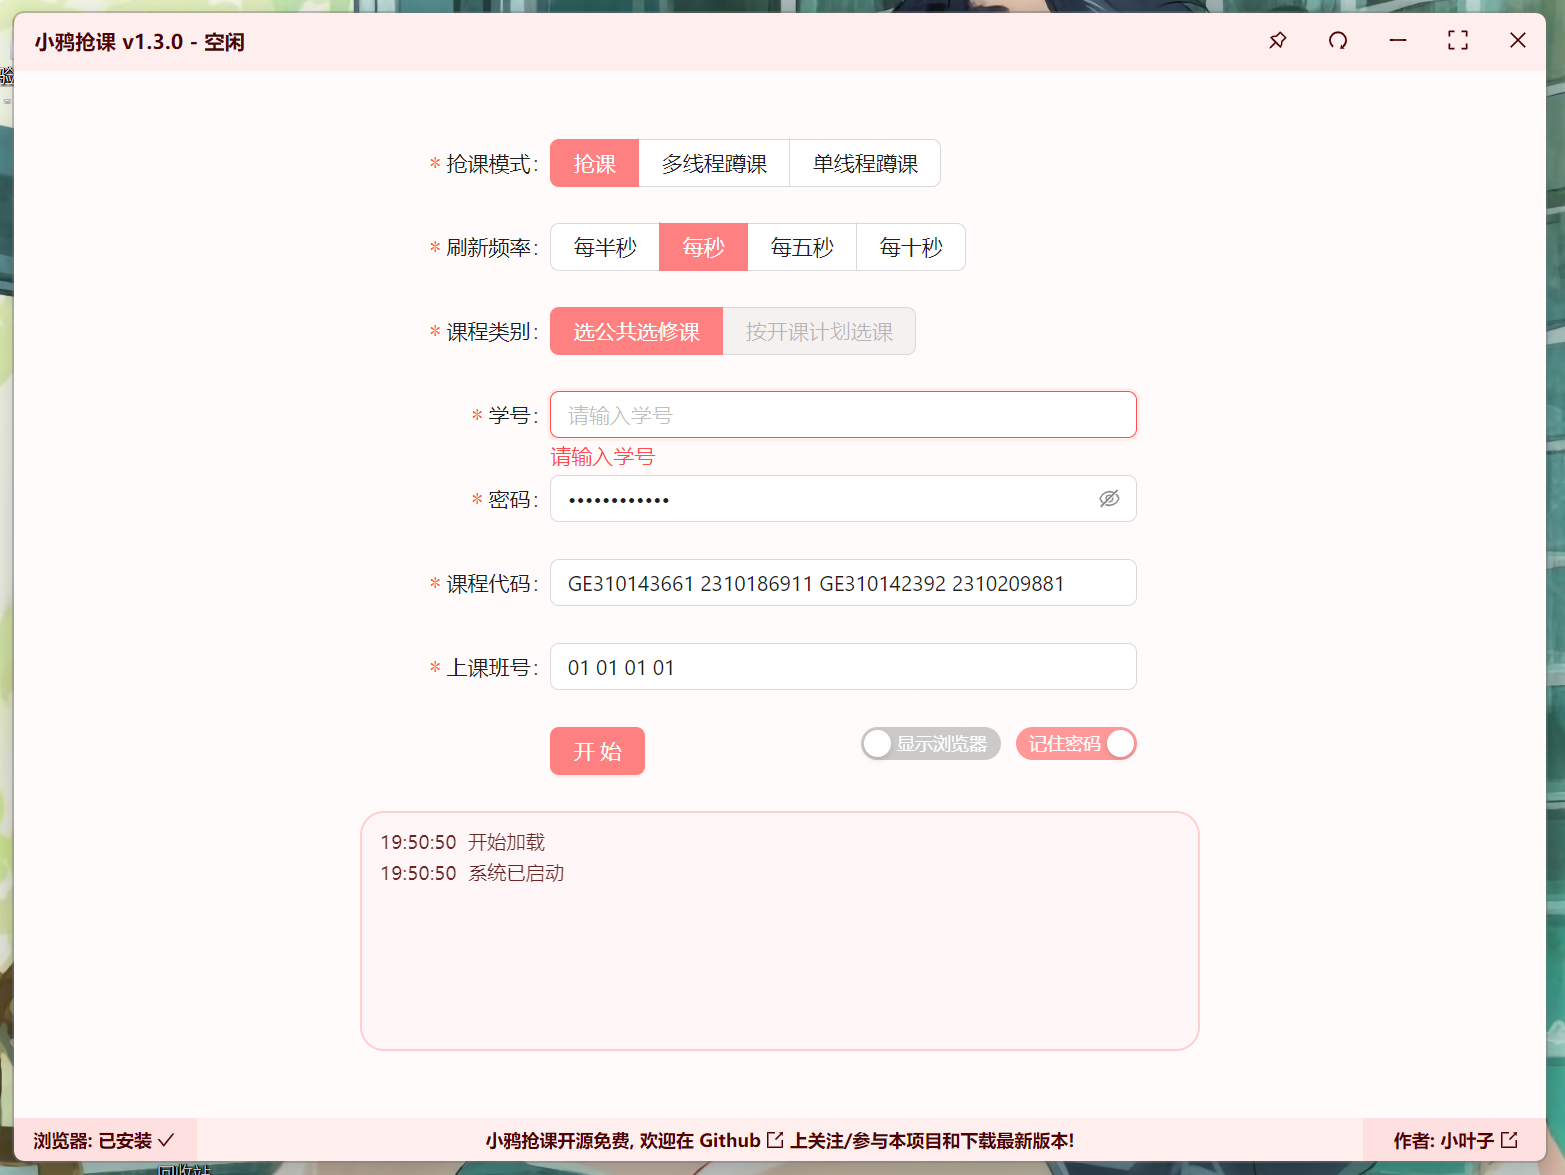
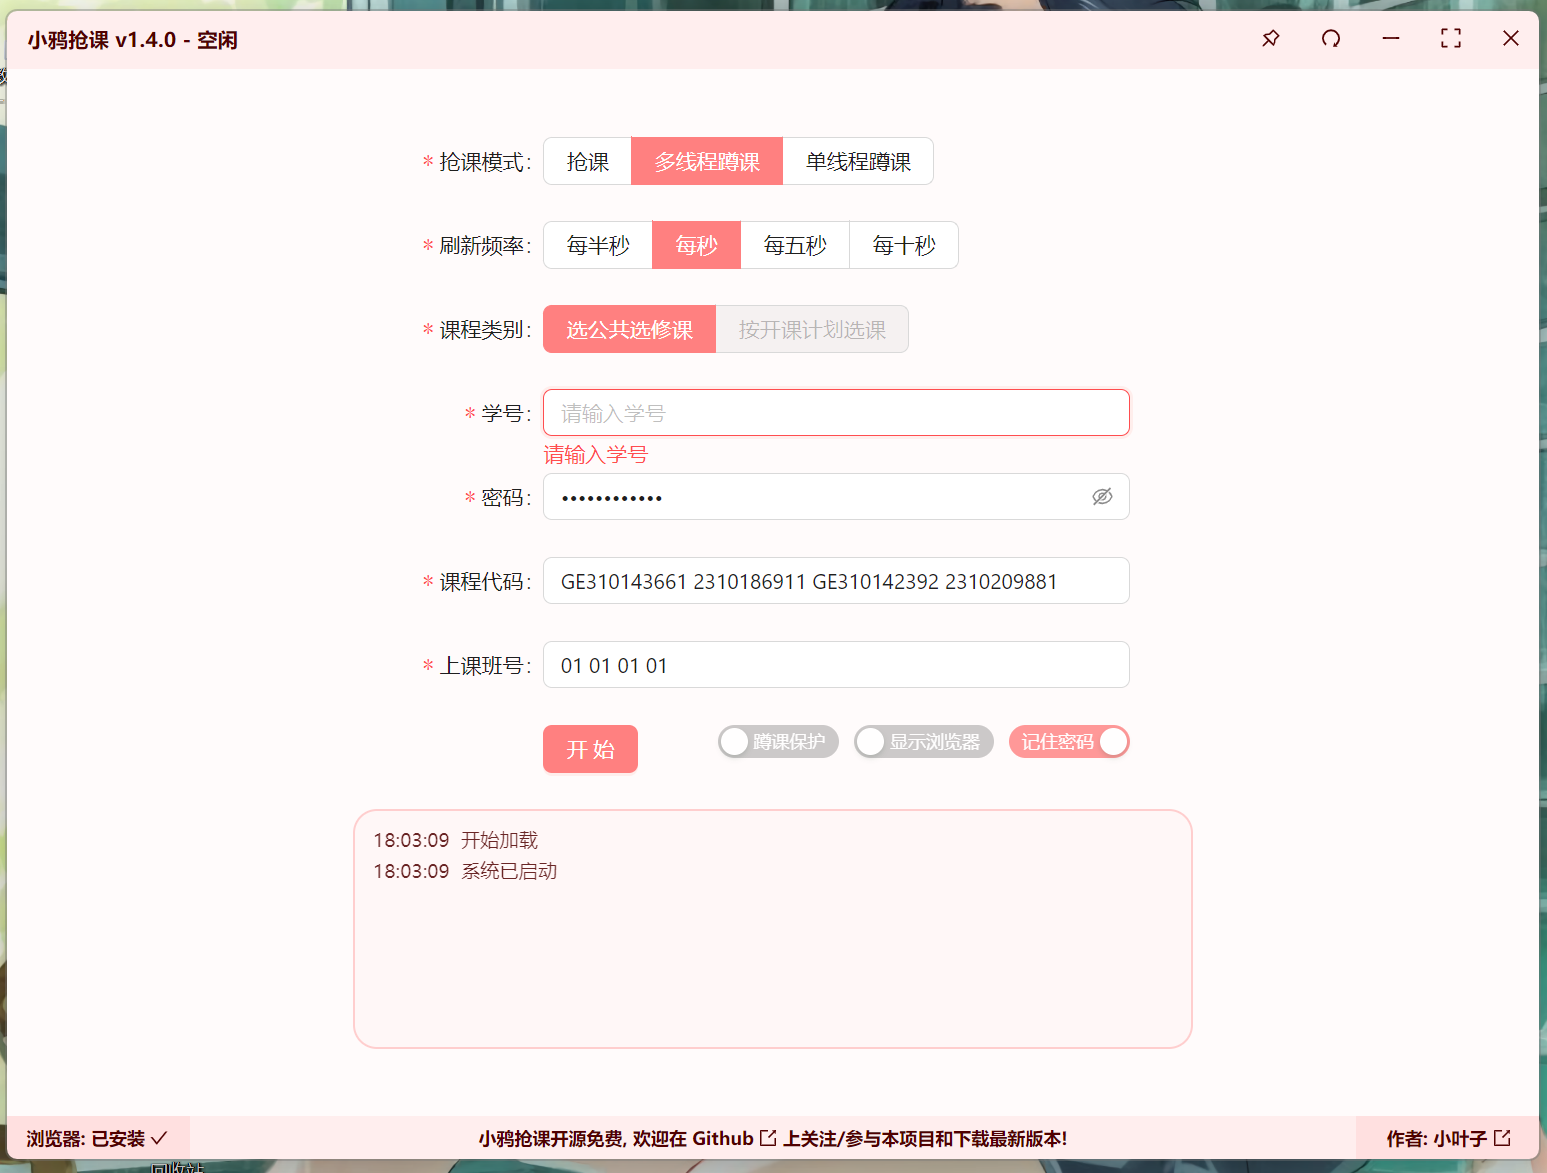
新增蹲课保护 修复有课但蹲课时无法选中的bug

diff --git a/frontend/src/components/Content.tsx b/frontend/src/components/Content.tsx
@@ -129,7 +129,25 @@ export function Content({ browserStatus, systemStatus, currentStatus }: ContentP
         EventsEmit('systemStatus', '单线程蹲课中')
       }
       // 抢课函数
-      await funcs[value.courseType][value.mode](value.speed, value.studentID, value.password, courseID, classID, localStorage.getItem('isHeadless') !== 'no')
+      if ((value.mode === 'WatchCourseSync' || value.mode === 'WatchCourse') && localStorage.getItem('isProtect') === 'yes') {
+        // 蹲课保护: Promise 被拒绝时, 会自动重试
+        const autoRetry = async (func: typeof WatchCoursePub | typeof WatchCoursePubSync, speed: number, studentID: string, password: string, courseID: string[], classID: string[], isHeadless: boolean) => {
+          // eslint-disable-next-line no-constant-condition
+          while (true) {
+            try {
+              await func(speed, studentID, password, courseID, classID, isHeadless)
+              break
+            } catch (err) {
+              EventsEmit('currentStatus', `检测到发生错误: ${err}`)
+              EventsEmit('currentStatus', '蹲课保护已启动, 重试 (如需退出, 直接关闭小鸦抢课即可)')
+            }
+          }
+        }
+        await autoRetry(funcs[value.courseType][value.mode], value.speed, value.studentID, value.password, courseID, classID, localStorage.getItem('isHeadless') !== 'no')
+      } else {
+        // 关闭蹲课保护或抢课
+        await funcs[value.courseType][value.mode](value.speed, value.studentID, value.password, courseID, classID, localStorage.getItem('isHeadless') !== 'no')
+      }
     } catch (err) {
       EventsEmit('currentStatus', err || '选课失败, 未知错误')
     } finally {
@@ -293,6 +311,23 @@ export function Content({ browserStatus, systemStatus, currentStatus }: ContentP
                   localStorage.setItem('isHeadless', 'no')
                 } else {
                   localStorage.setItem('isHeadless', 'yes')
+                }
+              }}
+            />
+            <Switch
+              style={{ 
+                float: 'right',
+                opacity: 0.8,
+                marginRight: 10,
+              }}
+              checkedChildren='蹲课保护'
+              unCheckedChildren='蹲课保护'
+              defaultChecked={localStorage.getItem('isProtect') === 'yes'}
+              onChange={checked => {
+                if (checked) {
+                  localStorage.setItem('isProtect', 'yes')
+                } else {
+                  localStorage.setItem('isProtect', 'no')
                 }
               }}
             />

diff --git a/frontend/src/components/Header.tsx b/frontend/src/components/Header.tsx
@@ -41,7 +41,7 @@ export function Header({ systemStatus }: HeaderProps ) {
       <p
         className='header-title'
       >
-        小鸦抢课 v1.3.0 - {systemStatus}
+        小鸦抢课 v1.4.0 - {systemStatus}
       </p>
 
       <button

diff --git a/watch.go b/watch.go
@@ -24,6 +24,8 @@ func (a *App) WatchCoursePub(speed int, studentID string, password string, cours
 			case err := <-ch:
 				if err != nil {
 					return err
+				} else {
+					return nil
 				}
 			default:
 				continue
@@ -43,6 +45,8 @@ func (a *App) WatchCoursePubSync(speed int, studentID string, password string, c
 			case err := <-ch:
 				if err != nil {
 					return err
+				} else {
+					return nil
 				}
 			default:
 				continue
@@ -185,13 +189,18 @@ func (a *App) watchCoursePubCore(speed int, studentID string, password string, c
 			runtime.EventsEmit(a.ctx, "currentStatus", fmt.Sprintf("检索课程 %s", courseID))
 			for {
 				ele = iiframe.Locator("#tr0_xz a")
+				// 延时
+				time.Sleep(time.Duration(speed) * time.Millisecond)
+				// 等待加载
+				iframe.WaitForLoadState(playwright.FrameWaitForLoadStateOptions{
+					State: playwright.LoadStateNetworkidle,
+				})
 				if exists, _ := ele.IsVisible(); exists {
 					err = ele.Click()
 					if err != nil { errCh <- err; return }
 					break
 				} else {
 					runtime.EventsEmit(a.ctx, "currentStatus", fmt.Sprintf("未找到课程 %s, 重新检索 (关闭小鸦抢课即可停止)", courseID))
-					time.Sleep(time.Duration(speed) * time.Millisecond)
 					// 点击 "检索"
 					ele = iframe.Locator("#btnQry")
 					err = ele.Click()
@@ -242,7 +251,8 @@ func (a *App) watchCoursePubCore(speed int, studentID string, password string, c
 	}
 
   // 成功	
-	ch <- fmt.Errorf("全部课程蹲课完成, 请手动确认结果")
+	runtime.EventsEmit(a.ctx, "currentStatus", "全部课程蹲课完成, 请手动确认结果")
+	ch <- nil
 }
 
 // 单线程蹲课模式主函数
@@ -380,13 +390,18 @@ func (a *App) watchCoursePubSyncCore(speed int, studentID string, password strin
 		// 点击 "选择"
 		runtime.EventsEmit(a.ctx, "currentStatus", fmt.Sprintf("检索课程 %s", courseID[index]))
 		ele = iiframe.Locator("#tr0_xz a")
+		// 延时
+		time.Sleep(time.Duration(speed) * time.Millisecond)
+		// 等待加载
+		iframe.WaitForLoadState(playwright.FrameWaitForLoadStateOptions{
+			State: playwright.LoadStateNetworkidle,
+		})
 		if exists, _ := ele.IsVisible(); exists {
 			err = ele.Click()
 			if err != nil { ch <- err; return }
 			break LOOP
 		} else {
 			runtime.EventsEmit(a.ctx, "currentStatus", fmt.Sprintf("未找到课程 %s, 重新检索 (关闭小鸦抢课即可停止)", courseID[index]))
-			time.Sleep(time.Duration(speed) * time.Millisecond)
 			// 更新索引
 			if index < len(courseID) - 1 {
 				index++
@@ -408,7 +423,8 @@ func (a *App) watchCoursePubSyncCore(speed int, studentID string, password strin
 	time.Sleep(2 * time.Second)
 
   // 成功	
-	ch <- fmt.Errorf("某个课程蹲课成功, 请手动确认结果")
+	runtime.EventsEmit(a.ctx, "currentStatus", "某个课程蹲课完成, 请手动确认结果")
+	ch <- nil
 }
 
 func (a *App) WatchCourseMaj(speed int, studentID string, password string, tpcourseID []string, tpclassID []string, headless bool) error {

diff --git a/catch.go b/catch.go
@@ -196,7 +196,8 @@ func (a *App) CatchCoursePub(speed int, studentID string, password string, cours
 	}
 
 	// 成功
-	return fmt.Errorf("抢课完成, 请手动确认结果")
+	runtime.EventsEmit(a.ctx, "currentStatus", "抢课完成, 请手动确认结果")
+	return nil
 }
 
 func (a *App) CatchCourseMaj(speed int, studentID string, password string, tpcourseID []string, tpclassID []string, headless bool) error {

diff --git a/README.md b/README.md
@@ -26,9 +26,12 @@
 | 密码 | 你的密码, 所有信息都保存在你的设备本地 |
 | 课程代码 | 你要抢的课程代码, 多门课程请用空格隔开 |
 | 上课班号 | 你要抢的上课班号, 多门课程请用空格隔开 |
+| 记住密码 | 勾选后, 下次打开程序会自动填写密码 |
+| 显示浏览器 | 勾选后, 会显示浏览器窗口, 用于调试 |
+| 蹲课保护 | **仅对蹲课生效**. 勾选后, 发生任何错误都会强制重启<br>可以避免一些网络错误导致的蹲课中断 |
 
 ### 抢课模式说明
-| 模式 | 开启教务页面数 | 如果系统未开启 | 如果可选人数为零 | 多个课程中一个成功 | 多个课程中一个失败 | 速度 |
+| 模式 | 开启教务页面数 | 如果系统未开启 | 如果可选人数为零 | 多个课程中一个成功 | 多个课程中一个出错 | 速度 |
 | :---: | :---: | :---: | :---: | :---: | :---: | :---: |
 | 抢课 | 每个课程一个 | 刷新 | 退出 | 继续剩余课程 | 继续剩余课程 | 快 |
 | 多线程蹲课 | 每个课程一个 | 退出 | 刷新 | 继续剩余课程 | 退出 | 快 |
